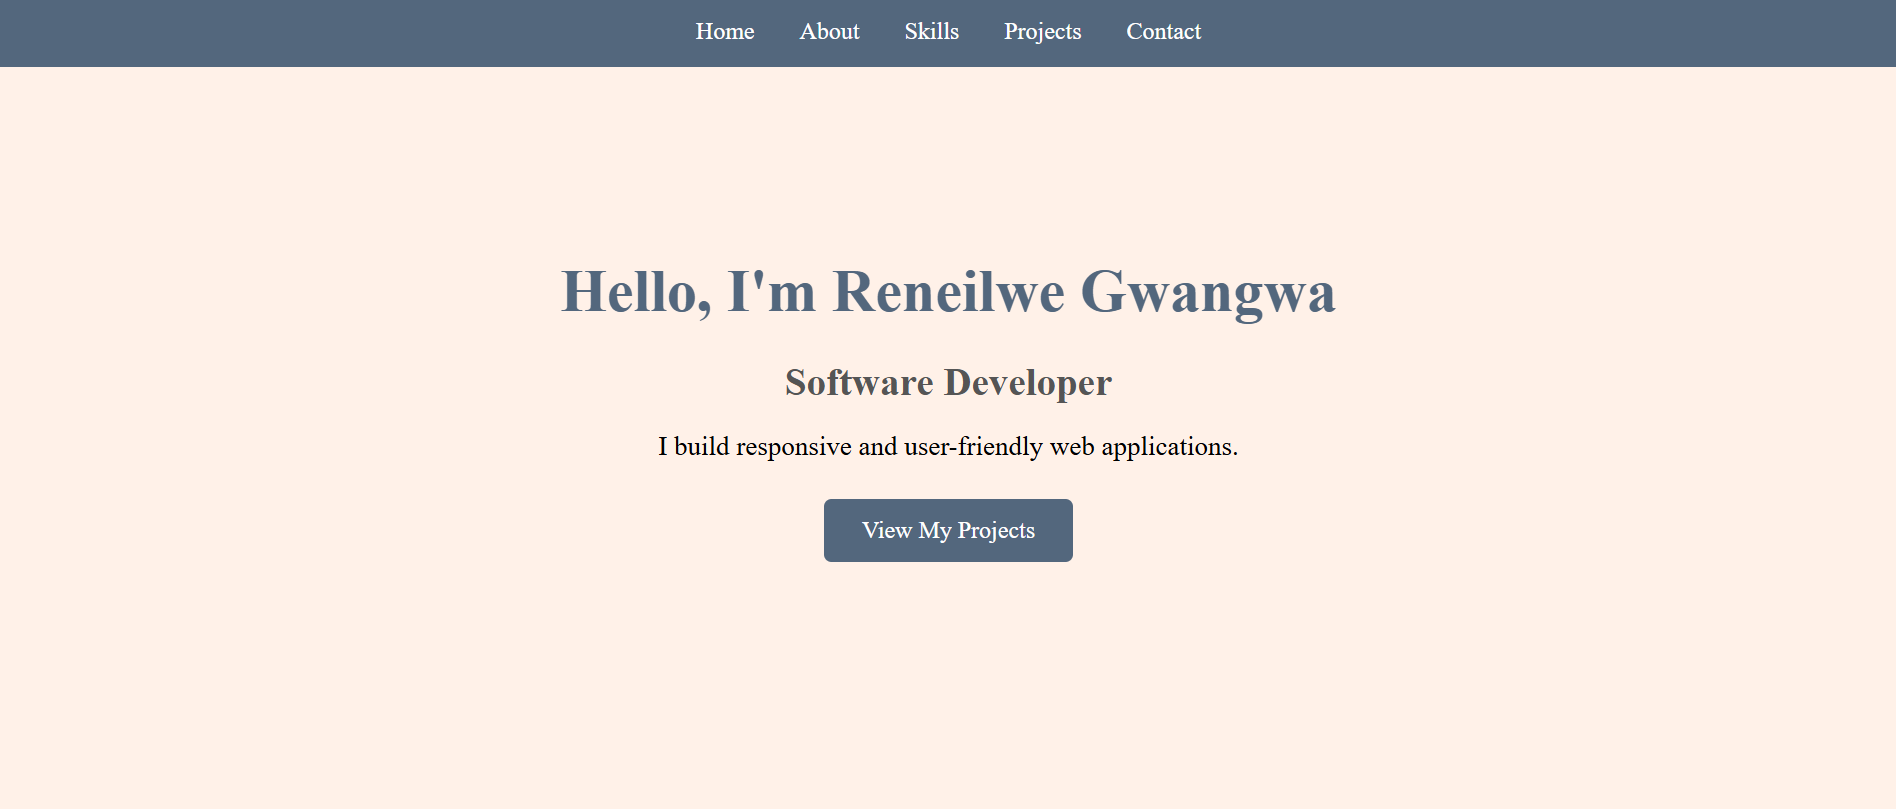
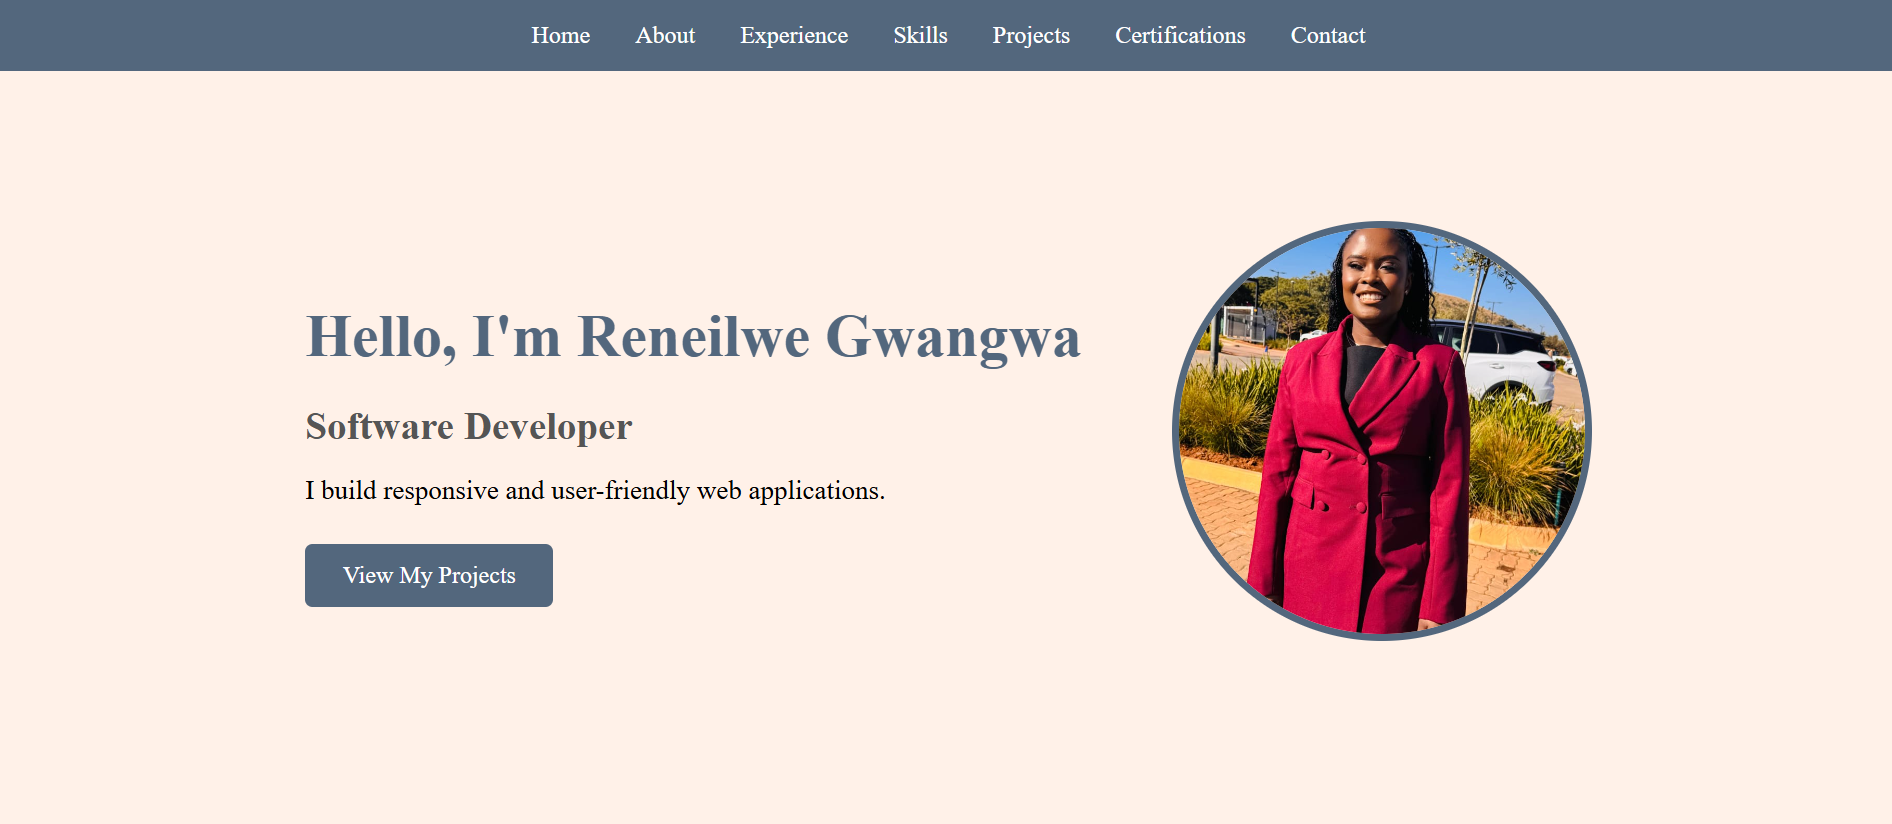
added prioile image, and screenshots

diff --git a/Task 2 - Personal Portfolio/style.css b/Task 2 - Personal Portfolio/style.css
@@ -55,6 +55,27 @@ nav ul li a:hover {
     transform: translateY(-3px);
 }
 
+.home-container {
+        display: flex;
+        align-items: center;
+        justify-content: center;
+        gap: 60px;
+        max-width: 1100px;
+        margin: 0 auto;
+    }
+
+    .home-content {
+        text-align: left;
+    }
+
+    .home-image img {
+        width: 280px;
+        height: 280px;
+        object-fit: cover;
+        border-radius: 50%;
+        border: 5px solid #53677D;
+    }
+
 #home h1 {
     font-size: 40px;
     color: #53677D;
@@ -395,6 +416,25 @@ nav ul li a:hover {
 
     #home p {
         font-size: 16px;
+    }
+
+    .home-container {
+        flex-direction: column-reverse;
+        gap: 25px;
+        text-align: center;
+    }
+
+    .home-content {
+        text-align: center;
+    }
+
+    .home-image {
+        flex: 0 0 auto;
+    }
+
+    .home-image img {
+        width: 180px;
+        height: 180px;
     }
 
     #about {

diff --git a/Task 2 - Personal Portfolio/index.html b/Task 2 - Personal Portfolio/index.html
@@ -25,10 +25,20 @@
         </nav>
     </header>
     <section id="home">
-        <h1>Hello, I'm Reneilwe Gwangwa</h1>
-        <h2>Software Developer</h2>
-        <p>I build responsive and user-friendly web applications.</p>
-        <a href="#projects">View My Projects</a>
+        <div class="home-container">
+
+            <div class="home-content">
+                <h1>Hello, I'm Reneilwe Gwangwa</h1>
+                <h2>Software Developer</h2>
+                <p>I build responsive and user-friendly web applications.</p>
+                <a href="#projects">View My Projects</a>
+            </div>
+
+            <div class="home-image">
+                <img src="images/Neo.jpg" alt="Profile photo">
+            </div>
+
+        </div>
     </section>
     <section id="about">
         <h2>About Me</h2>
